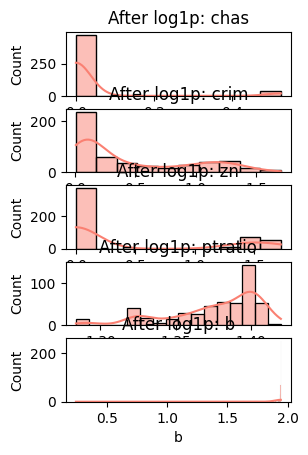
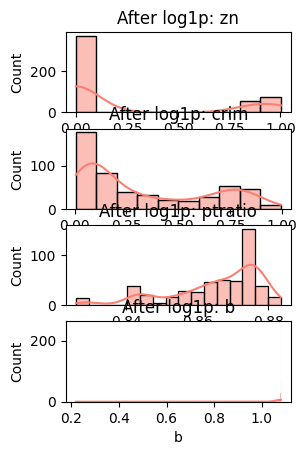
feat: normalize and check for skewed cols

diff --git a/Boston Home Price Forecasting Project.py b/Boston Home Price Forecasting Project.py
@@ -49,6 +49,32 @@ sns.heatmap(df.corr(), annot=True, cmap="coolwarm", linewidths=0.8)
 plt.title("correlation features")
 plt.show()
 
+# check for normalize data using skew
+features = df.drop("medv", axis=1)
+skew_vals = features.apply(skew).sort_values(ascending=False)
+skewed_features = skew_vals[abs(skew_vals) > 0.75]
+if df['chas'].nunique() <= 2:
+    skewed_features = skewed_features.drop('chas', errors='ignore')
+
+
+print(skewed_features)
+
+# رسم توزیع قبل از log1p
+plt.figure(figsize=(15, len(skewed_features) * 3))
+for i, feature in enumerate(skewed_features.index):
+    plt.subplot(len(skewed_features), 2, 2 * i + 1)
+    sns.histplot(df[feature], kde=True, color="skyblue")
+    plt.title(f"Before log1p: {feature}")
+
+# اعمال log1p روی فیچرهای چوله
+for feature in skewed_features.index:
+    df[feature] = np.log1p(df[feature])
+
+# رسم توزیع بعد از log1p
+for i, feature in enumerate(skewed_features.index):
+    plt.subplot(len(skewed_features), 2, 2 * i + 2)
+    sns.histplot(df[feature], kde=True, color="salmon")
+    plt.title(f"After log1p: {feature}")
 
 
 # Training-test data partitioning
